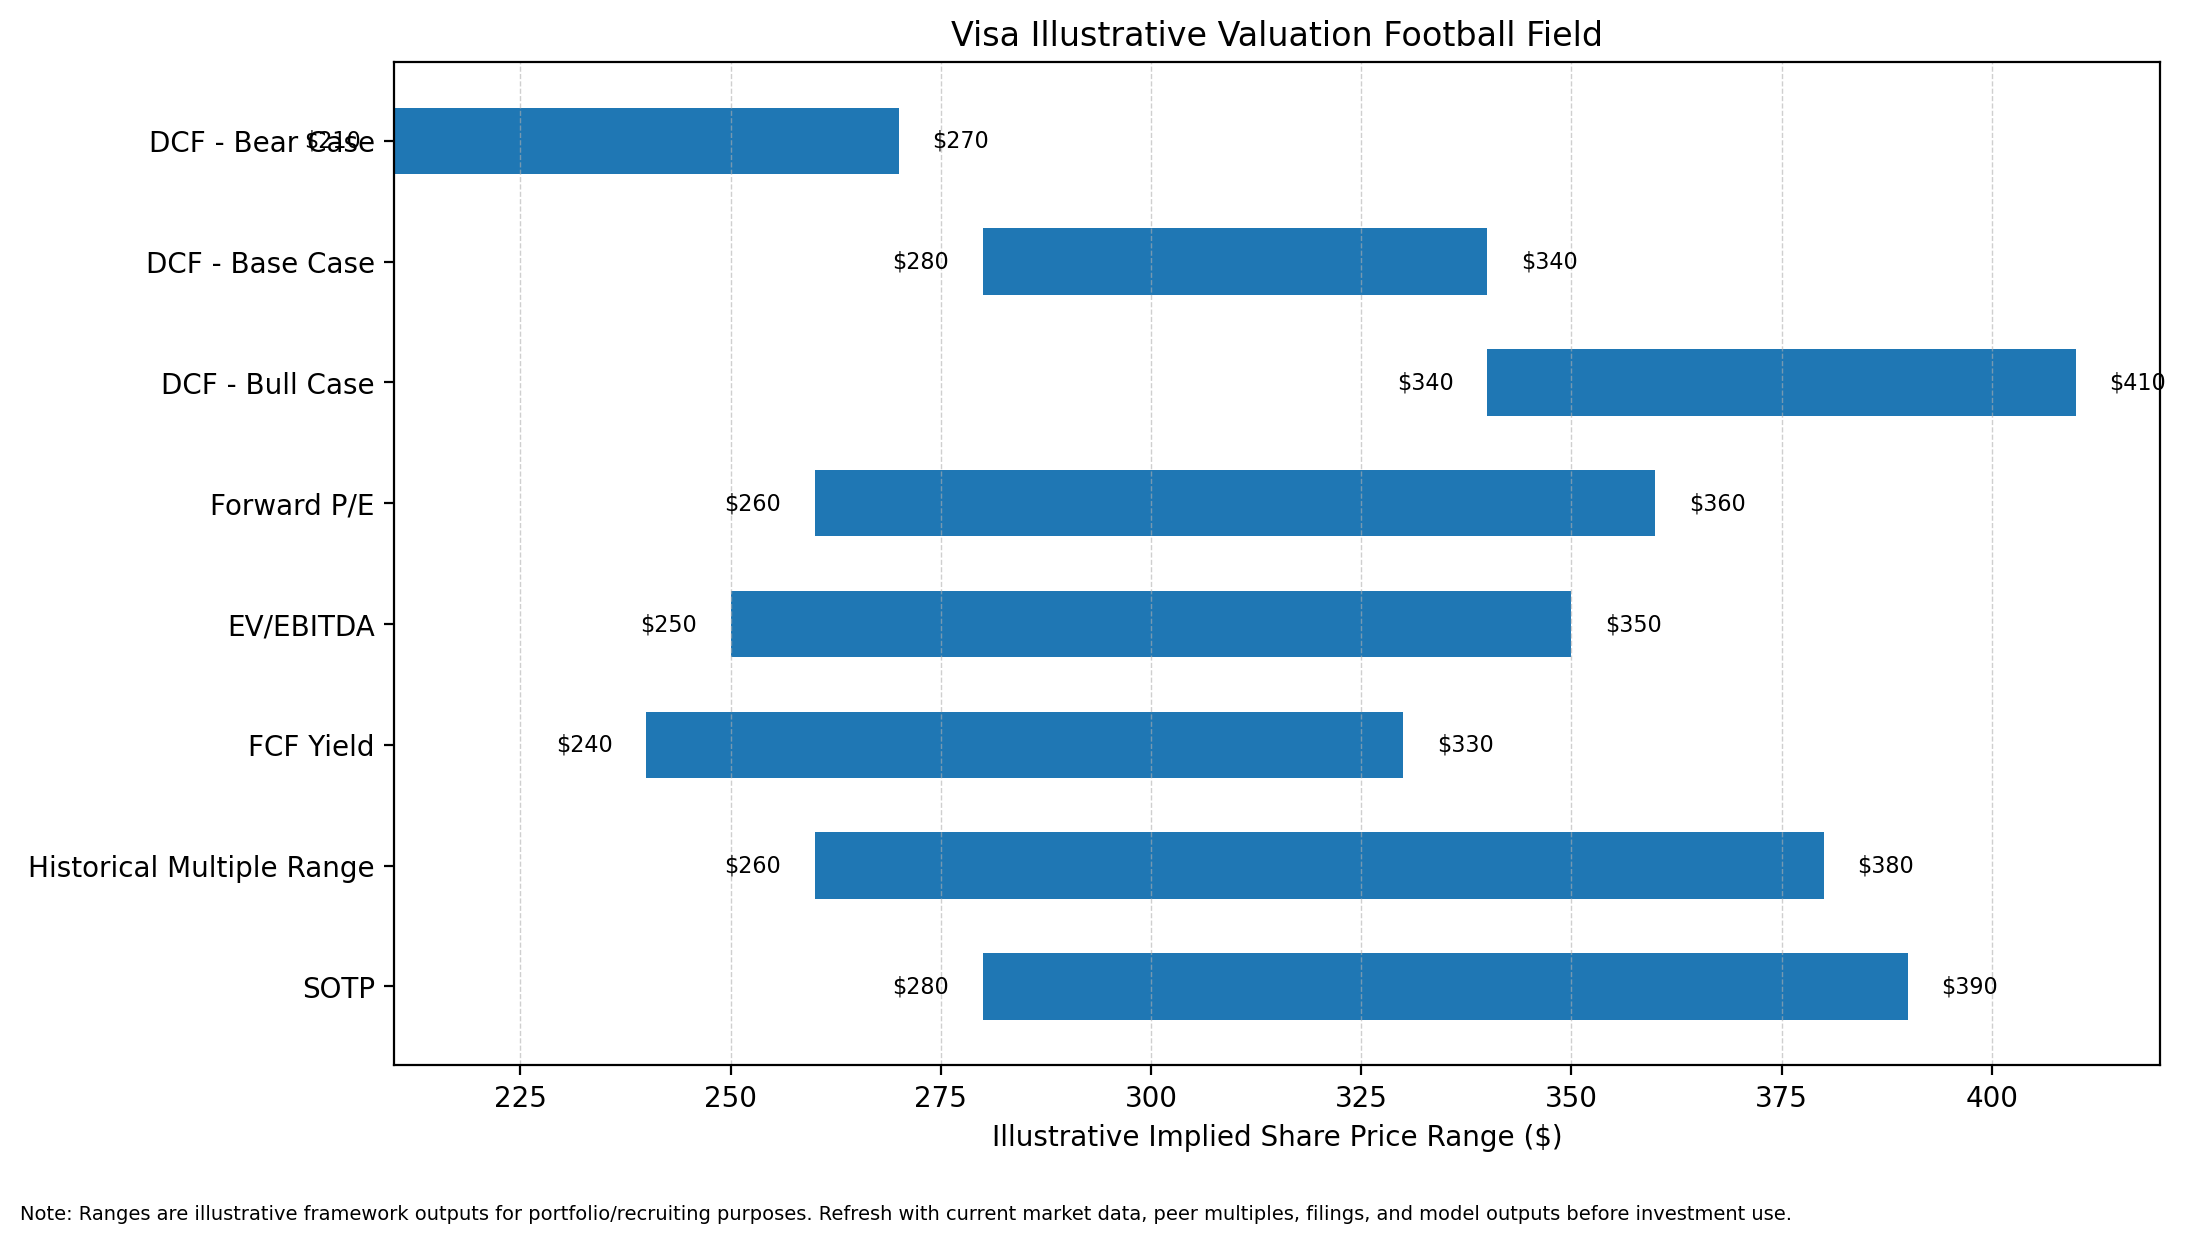
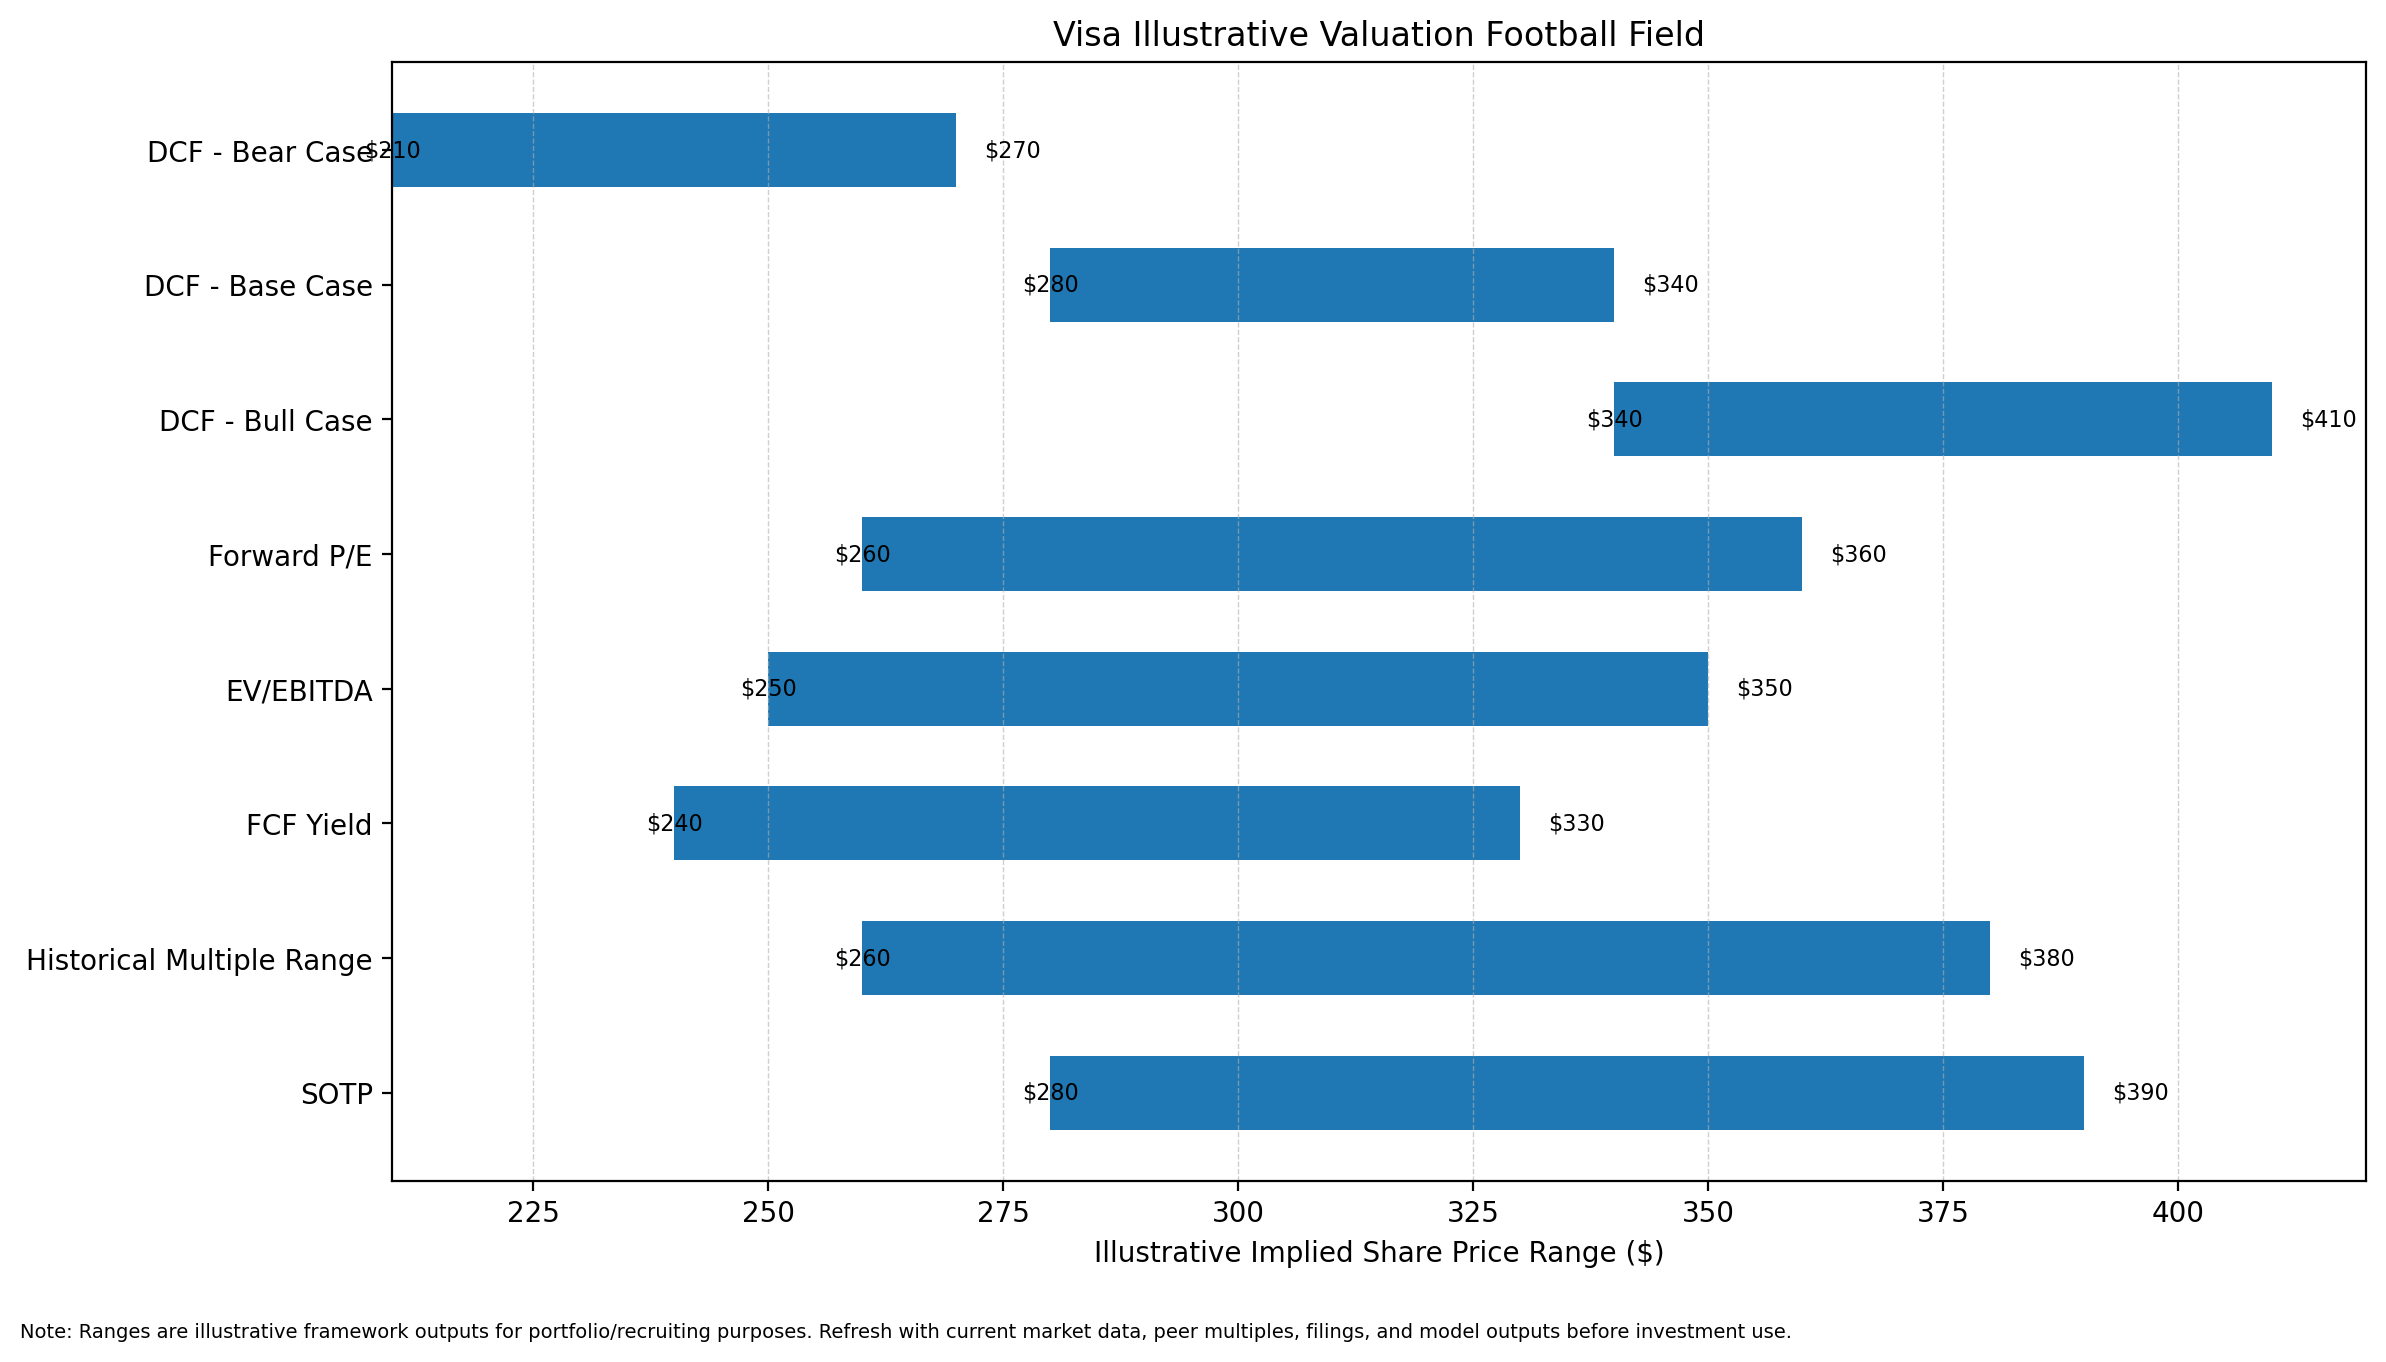
Polish valuation football field chart formatting

diff --git a/scripts/create_valuation_football_field_chart.py b/scripts/create_valuation_football_field_chart.py
@@ -30,7 +30,7 @@ highs = [float(row[2]) for row in rows[1:]]
 widths = [high - low for low, high in zip(lows, highs)]
 y_pos = list(range(len(labels)))
 
-fig, ax = plt.subplots(figsize=(11, 6.2))
+fig, ax = plt.subplots(figsize=(12, 6.8))
 
 ax.barh(y_pos, widths, left=lows, height=0.55)
 
@@ -42,8 +42,8 @@ ax.set_xlabel("Illustrative Implied Share Price Range ($)")
 ax.set_title("Visa Illustrative Valuation Football Field")
 
 for i, (low, high) in enumerate(zip(lows, highs)):
-    ax.text(low - 4, i, f"${low:.0f}", va="center", ha="right", fontsize=8)
-    ax.text(high + 4, i, f"${high:.0f}", va="center", ha="left", fontsize=8)
+    ax.text(low + 3, i, f"${low:.0f}", va="center", ha="right", fontsize=8)
+    ax.text(high + 3, i, f"${high:.0f}", va="center", ha="left", fontsize=8)
 
 ax.grid(axis="x", linestyle="--", linewidth=0.5, alpha=0.6)
 
